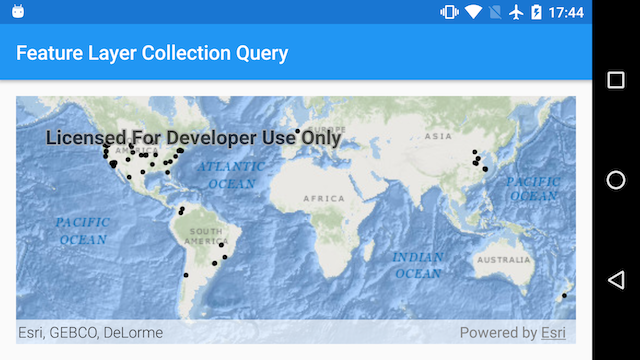
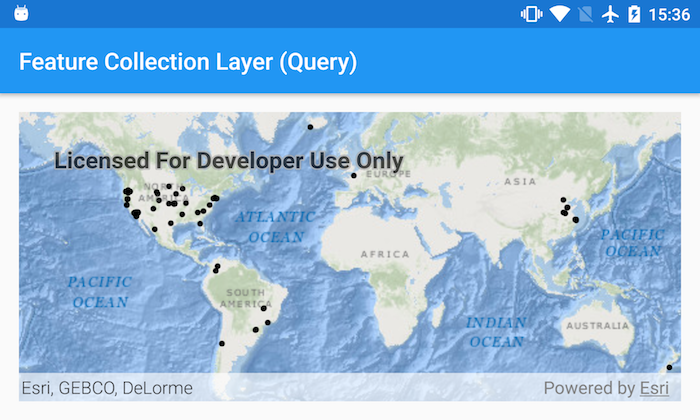
Update README and screenshot

diff --git a/feature-collection-layer-query/src/main/java/com/esri/arcgisruntime/sample/featurecollectionlayerquery/MainActivity.java b/feature-collection-layer-query/src/main/java/com/esri/arcgisruntime/sample/featurecollectionlayerquery/MainActivity.java
@@ -1,4 +1,4 @@
-/* Copyright 2016 Esri
+/* Copyright 2017 Esri
  *
  * Licensed under the Apache License, Version 2.0 (the "License");
  * you may not use this file except in compliance with the License.
@@ -36,10 +36,9 @@ import com.esri.arcgisruntime.mapping.view.MapView;
 
 public class MainActivity extends AppCompatActivity {
 
-  private String TAG = "FeatCollectLayerQuery";
+  private final String TAG = MainActivity.class.getSimpleName();
 
   private MapView mMapView;
-  private FeatureTable mFeatureTable;
 
   @Override
   protected void onCreate(Bundle savedInstanceState) {
@@ -57,7 +56,7 @@ public class MainActivity extends AppCompatActivity {
     mMapView.setMap(map);
 
     //initialize service feature table to be queried
-    mFeatureTable = new ServiceFeatureTable(getResources().getString(R.string.wildfire_feature_server));
+    FeatureTable featureTable = new ServiceFeatureTable(getResources().getString(R.string.wildfire_feature_server));
 
     //create query parameters
     QueryParameters queryParams = new QueryParameters();
@@ -66,7 +65,7 @@ public class MainActivity extends AppCompatActivity {
     queryParams.setWhereClause("1=1");
 
     //query feature from the table
-    final ListenableFuture<FeatureQueryResult> queryResult = mFeatureTable.queryFeaturesAsync(queryParams);
+    final ListenableFuture<FeatureQueryResult> queryResult = featureTable.queryFeaturesAsync(queryParams);
     queryResult.addDoneListener(new Runnable() {
       @Override public void run() {
         try {

diff --git a/feature-collection-layer-query/README.md b/feature-collection-layer-query/README.md
@@ -1,22 +1,9 @@
-# Display a Map
-The **Display Map** app is the most basic Map app for the [ArcGIS Runtime SDK for Android](https://developers.arcgis.com/en/android/).
-It shows how to inflate a `MapView` in the layout XML of the activity, create a `ArcGISMap` with a static `Basemap.Type` and bind the `ArcGISMap` to the `MapView`.  By default, this map supports basic zooming and panning operations.
+# Feature collection layer (query)
 
-![Display a Map App](display-map.png)
+This sample demonstrates how to create a feature collection layer to show a query result from a service feature table. The feature collection is then displayed on a map with a feature collection layer.
 
-## Features
-* ArcGISMap
-* MapView
-* Basemap
+![](image1.png)
 
-## Developer Pattern
-Create a `ArcGISMap` with a `Basemap.Type` and an initial viewpoint. 
+## How it works
 
-```java
-// inflate MapView from layout
-mMapView = (MapView) findViewById(R.id.mapView);
-// create a map with the BasemapType topographic
-ArcGISMap mMap = new ArcGISMap(Basemap.Type.TOPOGRAPHIC, 34.056295, -117.195800, 16);
-// set the map to be displayed in this view
-mMapView.setMap(mMap);
-```
+A query is performed using the `.queryFeaturesAsync(queryParameters)` method on `FeatureTable`. The result of the query is used to instantiate an `FeatureCollectionTable`. The table is used to instantiate an `FeatureCollection` which is then use to initialize a `FeatureCollectionLayer`. The layer is then displayed on the map by adding it to the operational layers array.
